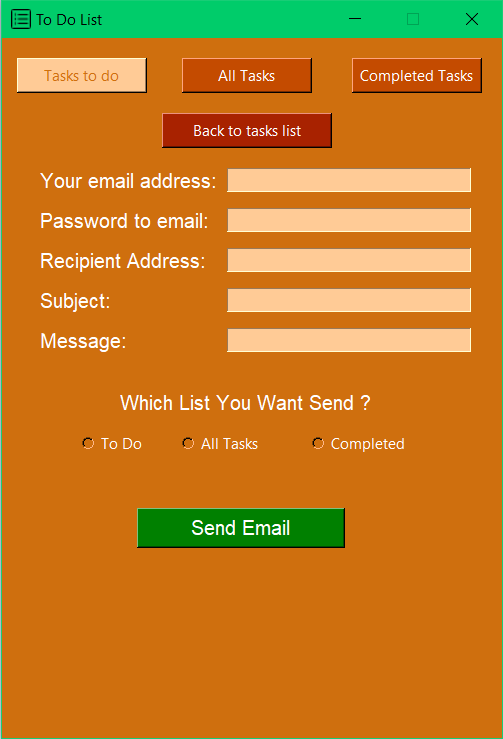
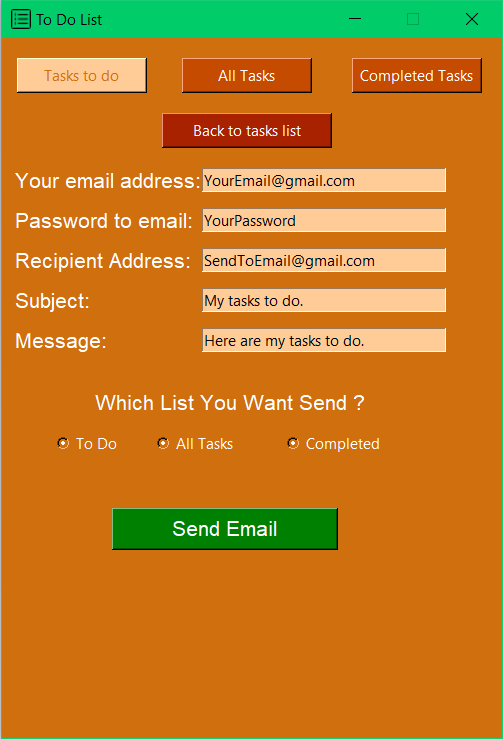
add foto to README. add tests. added exceptions and email extensions to send email function

diff --git a/src/app/main.py b/src/app/main.py
@@ -3,6 +3,7 @@ from tkinter import messagebox, PhotoImage
 from email.message import EmailMessage
 import plotly.express as px
 import smtplib
+import socket
 import sqlite3
 import sys, os
 
@@ -12,9 +13,9 @@ parent = os.path.dirname(current)
 sys.path.append(parent)
 
 # Import passwd from function in other folder
-# from app.email_passwd.email_password import email_passwd
+from app.email_passwd.email_password import email_passwd
 
-# email_password = email_passwd()
+email_password = email_passwd()
 
 
 # BackGround Color
@@ -311,7 +312,6 @@ class ToDoList():
         send_email_button.bind("<Button>", lambda e: self.send_email_with_tasks(own_email_address_entry.get(), passwd_to_email_entry.get(), email_address_to_send_entry.get(),subject_entry.get(), message_to_send_entry.get(),chosen_list_nr=(chosen_field1.get() + chosen_field2.get() + chosen_field3.get())))
 
 
-
     # Creates a frame for tasks list
     def create_tasks_frame(self):
         frame = Frame(self.window, width=50, height=550, bg=APP_BACKGROUND)
@@ -357,7 +357,7 @@ class ToDoList():
     # Create scrollbar
     def create_scrollbar(self):
         list_scrollbar = Scrollbar(self.tasks_frame)
-        list_scrollbar.place(x=470, y=10, height=240)
+        list_scrollbar.place(x=470, y=10, height=250)
         return list_scrollbar
     
 
@@ -609,64 +609,23 @@ class ToDoList():
 
     # Delete task from bd
     def delete_task_in_db(self):
-        # Get name of task to delete from selected task
-        task_to_delete = self.list_of_tasks.selection_get()
-
-        if task_to_delete != '':
+        try:
+            # Get name of task to delete from selected task
+            task_to_delete = self.list_of_tasks.selection_get()
             
-
-            # Delete selected task in list
-            self.list_of_tasks.delete(ANCHOR)
-
-            # Connect to database
-            db_connect = sqlite3.connect('to_do_list.db')
-            cursor = db_connect.cursor()
-
-            # Delete task in database
-            cursor.execute(f"""DELETE FROM all_tasks WHERE name='{task_to_delete}'""")
-            cursor.execute(f"""DELETE FROM task_to_do WHERE name='{task_to_delete}'""")
-            cursor.execute(f"""DELETE FROM completed_tasks WHERE name='{task_to_delete}'""")
-        
-            # Commit changes in database and close connections
-            db_connect.commit()
-            db_connect.close()
-
-            # Update tasks widget
-            self.create_pie_chart()
-            self.update_pie_chart_label()
-
-            return task_to_delete
-        
-        return task_to_delete
-
-
-    # Add task to completed list
-    def add_to_completed_list(self):
-        # Get name of task to transferred to list of completed task
-        task_to_transfer = self.list_of_tasks.selection_get()
-
-        if task_to_transfer != '':
-
-            # Connect to database
-            db_connect = sqlite3.connect('to_do_list.db')
-            cursor = db_connect.cursor()    
-
-            completed_tasks = cursor.execute("""SELECT name FROM completed_tasks""")
-            completed_tasks = [task[0] for task in list(completed_tasks)]
-            
-            if task_to_transfer not in completed_tasks:
-
-                # Delete selected task in task to do list
+            if task_to_delete != '':
+                # Delete selected task in list
                 self.list_of_tasks.delete(ANCHOR)
 
+                # Connect to database
+                db_connect = sqlite3.connect('to_do_list.db')
+                cursor = db_connect.cursor()
 
-
-                # Delete task in "task to do" table in database
-                cursor.execute(f"""DELETE FROM task_to_do WHERE name='{task_to_transfer}'""")
-
-                # Add task to "completed task" table in database
-                cursor.execute(f"""INSERT INTO completed_tasks(id, name) VALUES(null, '{task_to_transfer.capitalize()}')""")
-
+                # Delete task in database
+                cursor.execute(f"""DELETE FROM all_tasks WHERE name='{task_to_delete}'""")
+                cursor.execute(f"""DELETE FROM task_to_do WHERE name='{task_to_delete}'""")
+                cursor.execute(f"""DELETE FROM completed_tasks WHERE name='{task_to_delete}'""")
+            
                 # Commit changes in database and close connections
                 db_connect.commit()
                 db_connect.close()
@@ -675,11 +634,60 @@ class ToDoList():
                 self.create_pie_chart()
                 self.update_pie_chart_label()
 
+                return task_to_delete
+            
+            return task_to_delete
+        
+        except:
+            return self.send_error_box("Selecting error.", "Select task to delete")
+
+
+    # Add task to completed list
+    def add_to_completed_list(self):
+
+        try:
+            # Get name of task to transferred to list of completed task
+            task_to_transfer = self.list_of_tasks.selection_get()
+
+            if task_to_transfer != '':
+
+                # Connect to database
+                db_connect = sqlite3.connect('to_do_list.db')
+                cursor = db_connect.cursor()    
+
+                completed_tasks = cursor.execute("""SELECT name FROM completed_tasks""")
+                completed_tasks = [task[0] for task in list(completed_tasks)]
+                
+                if task_to_transfer not in completed_tasks:
+
+                    # Delete selected task in task to do list
+                    self.list_of_tasks.delete(ANCHOR)
+
+
+
+                    # Delete task in "task to do" table in database
+                    cursor.execute(f"""DELETE FROM task_to_do WHERE name='{task_to_transfer}'""")
+
+                    # Add task to "completed task" table in database
+                    cursor.execute(f"""INSERT INTO completed_tasks(id, name) VALUES(null, '{task_to_transfer.capitalize()}')""")
+
+                    # Commit changes in database and close connections
+                    db_connect.commit()
+                    db_connect.close()
+
+                    # Update tasks widget
+                    self.create_pie_chart()
+                    self.update_pie_chart_label()
+
+                    return task_to_transfer
+                
                 return task_to_transfer
             
             return task_to_transfer
-        
-        return task_to_transfer
+
+        except:
+            return self.send_error_box("Selecting error.", "Select the task you want to add to your completed list")
+
 
     # Create add task to completed list button
     def create_add_to_completed_button(self):
@@ -703,8 +711,8 @@ class ToDoList():
         
 
     # Create send error box
-    def send_error_box(self, error):
-        messagebox.showinfo('ERROR !!!', error)
+    def send_error_box(self,error_title, error):
+        messagebox.showinfo(error_title, error)
         return error
 
 
@@ -806,10 +814,23 @@ class ToDoList():
             msg['From'] = my_email
             msg['To'] = email_to_send
 
+
             try:
                 # Create smtplib SMTP object
-                server = smtplib.SMTP('smtp.gmail.com', 587)
-                server.starttls()
+                if 'gmail' in my_email:
+                    server = smtplib.SMTP_SSL('smtp.gmail.com', 465)
+                elif 'wp.pl' in my_email:
+                    server = smtplib.SMTP_SSL('smtp.wp.pl', 465)
+                elif ('interia.pl' or 'poczta.fm' or 'interia.eu') in my_email:
+                    server = smtplib.SMTP_SSL('poczta.interia.pl', 465)
+                elif 'o2.pl' in my_email:
+                    server = smtplib.SMTP_SSL('poczta.o2.pl', 465)
+                elif ('onet.pl' or 'op.pl' or 'poczta.onet.pl' or 'onet.eu' or 'onet.com.pl' or 'vp.pl' or 'spoko.pl' or 'vip.onet.pl' or 'autograf.pl' or 'opoczta.pl') in my_email:
+                    server = smtplib.SMTP_SSL('smtp.poczta.onet.pl', 465)
+                else:
+                    server = smtplib.SMTP_SSL(my_email, 465)
+
+                server.ehlo()
 
                 # Login to email
                 server.login(my_email, email_passwd)
@@ -829,10 +850,23 @@ class ToDoList():
 
             # Catch ten errors
             except smtplib.SMTPAuthenticationError:
-                self.send_error_box("Email Address or Password incorrect !!! Try again.")
+                self.send_error_box("Email validation error.", "Email Address or Password incorrect !!! Try again. Remember you must use SMTP password for your email. Go to your email options and SET SMTP password.")
 
             except smtplib.SMTPRecipientsRefused:
-                self.send_error_box("Wrong Recipient Address !!! Try again.")
+                self.send_error_box("Email validation error.", "Wrong Recipient Address !!! Try again.")
+
+            except smtplib.SMTPConnectError:
+                self.send_error_box("Connect Error", "Something's gone wrong, try again.")
+
+            except socket.gaierror:
+                self.send_error_box("Connect Error", "Email account dose'nt exists")
+
+            finally:
+                    self.email_frame.pack_forget()
+                    self.lists_button.grid_forget()
+                    self.tasks_frame.pack(expand=True, fill="both")
+                    self.email_button.grid(row=1, column=1)  
+
 
 
     def create_pie_chart(self):

diff --git a/tests/test_app.py b/tests/test_app.py
@@ -6,25 +6,21 @@ parent = os.path.dirname(current)
 sys.path.append(parent)
 
 # Import class from main 
-# from src.app.main import ToDoList
 from src.app.main import ToDoList
 
-
+# Set class object
 window = ToDoList()
-a = ToDoList
-print(str(a.create_options_frame))
-print(str(window.create_options_frame()))
 
 # Testing created frame in program
 
 def test_create_options_frame():
     var = window.create_options_frame()    
-    assert str(var) == '.!frame4'
+    assert str(var) == '.!frame3'
 
 
 def test_create_tasks_frame():
     var = window.create_tasks_frame()
-    assert str(var) == ".!frame5"
+    assert str(var) == ".!frame4"
 
 
 def test_create_update_frame():
@@ -99,7 +95,7 @@ def test_create_lists_button():
 
 def test_create_email_field():
     var = window.create_email_field()
-    assert str(var) == ".!frame6"
+    assert str(var) == ".!frame5"
 
 
 def test_create_input_field():
@@ -134,16 +130,34 @@ def test_add_task_to_list():
 
 # Testing error message
 def test_send_error1_box():
-    error = "Email Address or Password incorrect !!! Try again."
-    var = window.send_error_box(error=error)
-    assert str(var) == "Email Address or Password incorrect !!! Try again."
+    error = "Email Address or Password incorrect !!! Try again. Remember you must use SMTP password for your email. Go to your email options and SET SMTP password."
+    error_title = "Email validation error."
+    var = window.send_error_box(error=error, error_title=error_title)
+    assert str(var) == "Email Address or Password incorrect !!! Try again. Remember you must use SMTP password for your email. Go to your email options and SET SMTP password."
 
 
 # Testing error message
 def test_send_error2_box():
     error = "Wrong Recipient Address !!! Try again."
-    var = window.send_error_box(error=error)
+    error_title = "Email validation error."
+    var = window.send_error_box(error=error, error_title=error_title)
     assert str(var) == "Wrong Recipient Address !!! Try again."
+
+
+# Testing error message
+def test_send_error3_box():
+    error = "Something's gone wrong, try again."
+    error_title = "Connect Error"
+    var = window.send_error_box(error=error, error_title=error_title)
+    assert str(var) == "Something's gone wrong, try again."
+
+
+# Testing error message
+def test_send_error4_box():
+    error = "Email account dose'nt exists"
+    error_title = "Connect Error"
+    var = window.send_error_box(error=error, error_title=error_title)
+    assert str(var) == "Email account dose'nt exists"
 
 
 # Testing pie chart label
@@ -156,8 +170,3 @@ def test_update_pie_chart_label():
     var = window.update_pie_chart_label()
     assert str(var) == ".!frame2.!label3"
 
-
-    ###############################################################################
-
-    def test_show_tasks_to_do_list():
-        pass

diff --git a/README.md b/README.md
@@ -35,6 +35,7 @@
 
 ### And finally we can send to email one, two or all lists.
 <img src="/images/send_email.png">
+<img src="/images/email_view.png">
 
 ### There is a tasks widget, showing how many task we have, how many we want to do and how many we completed.
 <img src="/images/tasks_chart.png">
